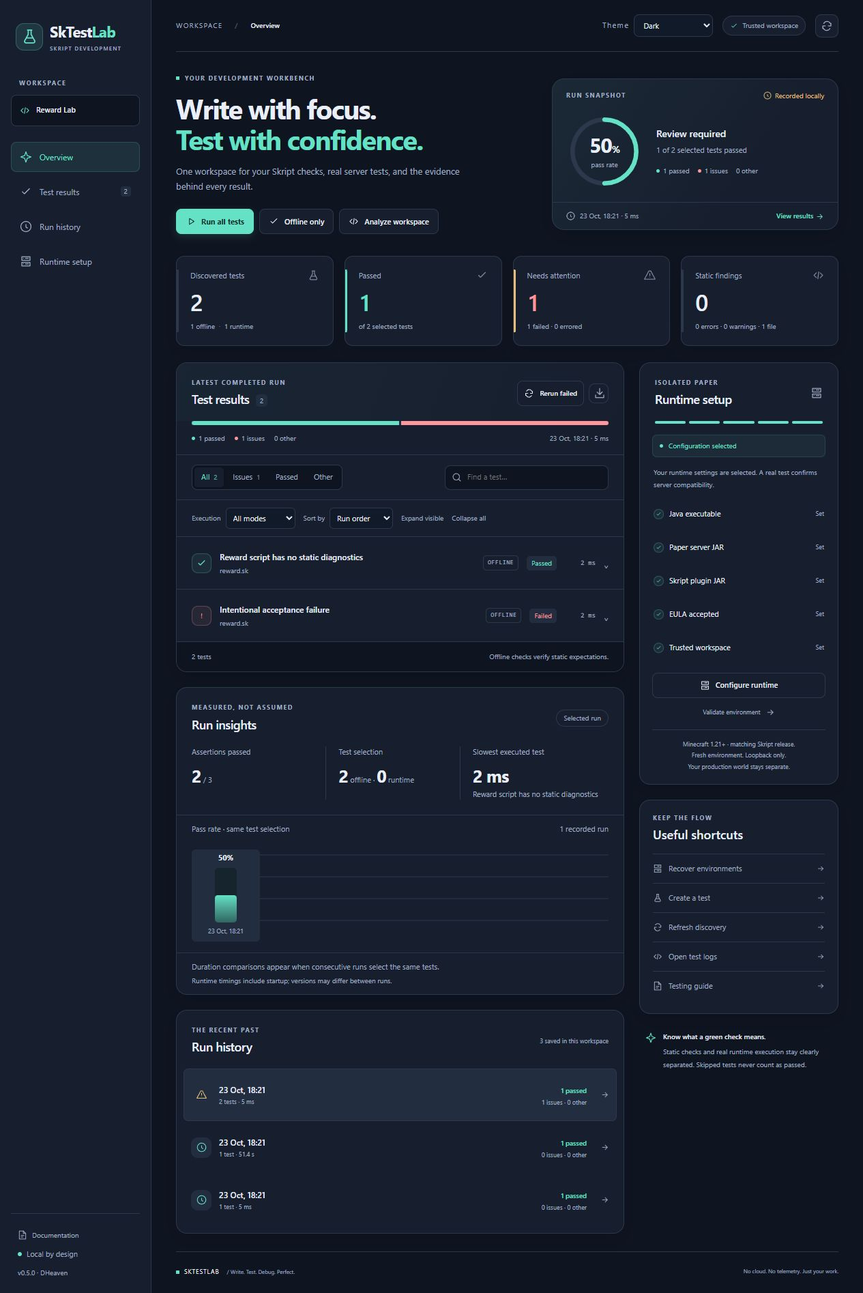
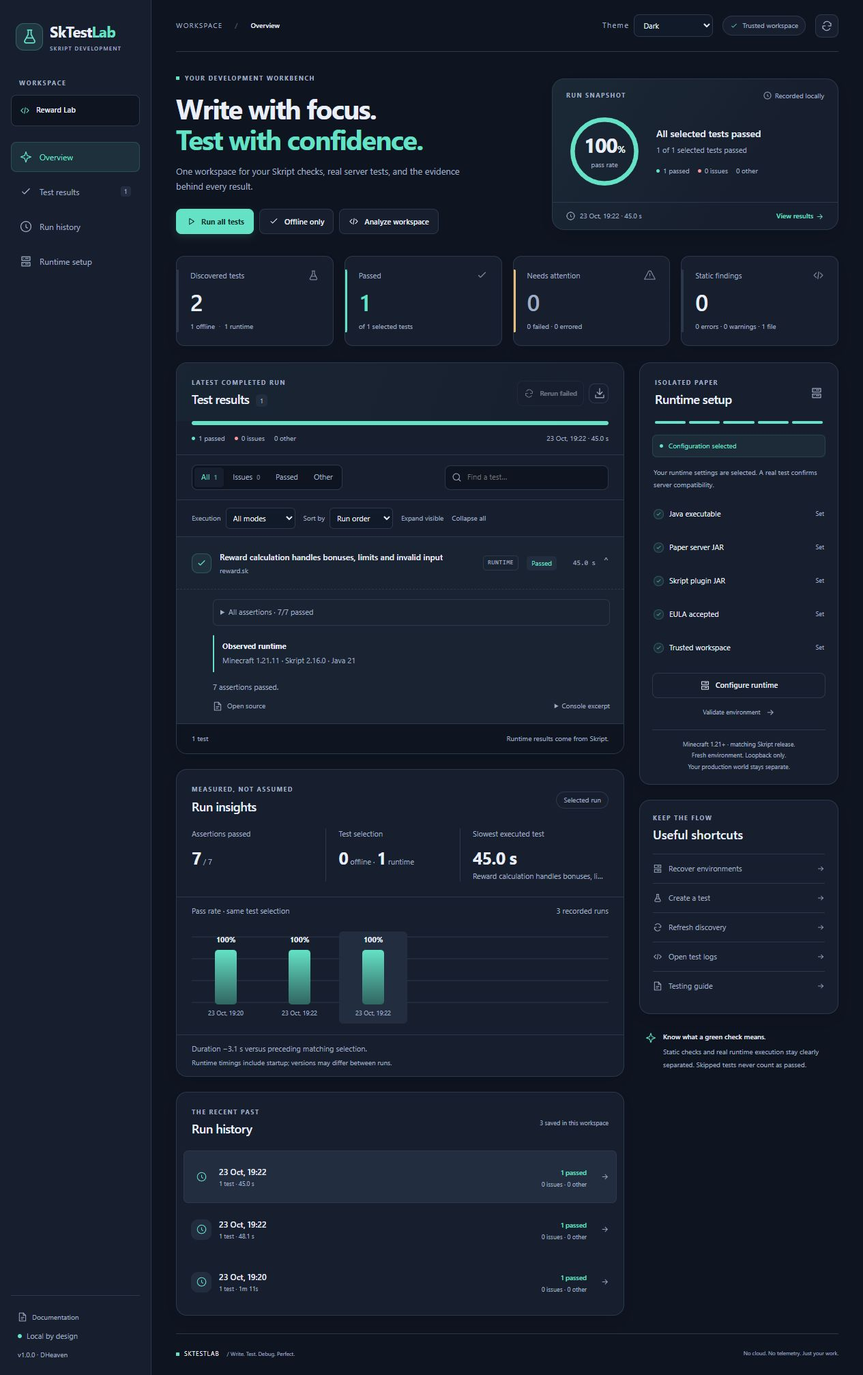
Release SkTestLab 1.0.0 for Windows x64

diff --git a/src/extension.ts b/src/extension.ts
@@ -236,6 +236,8 @@ export async function activate(context: vscode.ExtensionContext) {
       root.uri.fsPath,
       config(root.uri).get("reports.outputDirectory", ".sktestlab/reports"),
     );
+    // Native Save As dialogs can ignore a default URI whose parent is missing.
+    await vscode.workspace.fs.createDirectory(vscode.Uri.file(directory));
     const uri = await vscode.window.showSaveDialog({
       defaultUri: vscode.Uri.file(
         path.join(directory, "sktestlab-" + record.id + "." + extension),

diff --git a/scripts/prepare-release.py b/scripts/prepare-release.py
@@ -49,7 +49,7 @@ def main():
         archive.write(ROOT / "LICENSE.txt", "reward-lab/LICENSE.txt")
 
     contents = {vsix.name: vsix.read_bytes(), source.name: source.read_bytes(), example.name: example.read_bytes()}
-    for target, origin in [("LICENSE.txt", "LICENSE.txt"), ("INSTALL.md", "docs/install.md"), ("SKUNITY-LISTING.md", "docs/skunity-listing.md"), ("RELEASE-CHECKLIST.md", "docs/release-1.0.md"), ("BETA-TESTING.md", "docs/beta-testing.md")]:
+    for target, origin in [("LICENSE.txt", "LICENSE.txt"), ("INSTALL.md", "docs/install.md"), ("SKUNITY-LISTING.md", "docs/skunity-listing.md"), ("RELEASE-CHECKLIST.md", "docs/release-1.0.md"), ("TESTING-GUIDE.md", "docs/testing-guide.md"), ("SKUNITY-DESCRIPTION.bbcode", "docs/skunity-description.bbcode")]:
         contents[target] = (ROOT / origin).read_bytes()
     checksums = "".join(hashlib.sha256(data).hexdigest() + "  " + name + "\n" for name, data in sorted(contents.items()))
     contents["SHA256SUMS.txt"] = checksums.encode()
@@ -66,8 +66,27 @@ def main():
             if hashlib.sha256(archive.read(name)).hexdigest() != digest:
                 raise ValueError("Delivered checksum mismatch: " + name)
     (output / "SHA256SUMS.txt").write_text(checksums + hashlib.sha256(target.read_bytes()).hexdigest() + "  " + target.name + "\n", encoding="utf-8")
+    kit = output / f"sktestlab-{version}-skunity-kit.zip"
+    kit_contents = {target.name: target.read_bytes()}
+    for name, origin in [("PUBLISH.md", "docs/skunity-upload.md"), ("SKUNITY-LISTING.md", "docs/skunity-listing.md"), ("SKUNITY-DESCRIPTION.bbcode", "docs/skunity-description.bbcode"), ("icon.png", "assets/icon.png"), ("dashboard-dark.png", "docs/images/dashboard-dark.png"), ("dashboard-white.png", "docs/images/dashboard-white.png")]:
+        kit_contents[name] = (ROOT / origin).read_bytes()
+    kit_checksums = "".join(hashlib.sha256(data).hexdigest() + "  " + name + "\n" for name, data in sorted(kit_contents.items()))
+    kit_contents["SHA256SUMS.txt"] = kit_checksums.encode()
+    with zipfile.ZipFile(kit, "w", zipfile.ZIP_DEFLATED) as archive:
+        for name, data in sorted(kit_contents.items()):
+            archive.writestr(name, data)
+    with zipfile.ZipFile(kit) as archive:
+        if archive.testzip() is not None:
+            raise ValueError("Publishing kit ZIP is corrupt")
+        for line in kit_checksums.splitlines():
+            digest, name = line.split("  ", 1)
+            if hashlib.sha256(archive.read(name)).hexdigest() != digest:
+                raise ValueError("Publishing kit checksum mismatch: " + name)
+    with (output / "SHA256SUMS.txt").open("a", encoding="utf-8") as manifest:
+        manifest.write(hashlib.sha256(kit.read_bytes()).hexdigest() + "  " + kit.name + "\n")
     print(f"Prepared and verified {target}")
-    print("Local preview bundle only. Complete docs/release-1.0.md before publishing 1.0.0.")
+    print(f"Publishing kit: {kit}")
+    print("Local bundle only. Publication and skUnity submission are separate actions; verify final release evidence first.")
 
 
 if __name__ == "__main__":

diff --git a/scripts/test_release_audit.py b/scripts/test_release_audit.py
@@ -5,6 +5,7 @@ import unittest
 from pathlib import Path
 import zipfile
 import importlib.util
+import json
 spec = importlib.util.spec_from_file_location("release_audit", Path(__file__).with_name("audit-release.py"))
 module = importlib.util.module_from_spec(spec)
 spec.loader.exec_module(module)
@@ -29,6 +30,18 @@ class AuditTests(unittest.TestCase):
     def test_hash_mismatch(self):
         result = audit(self.bundle({"README.md": b"content"}, True))
         self.assertIn("checksum_mismatch", [f["kind"] for f in result["findings"]])
+
+    def test_valid_lockfile(self):
+        lock = {"version": "1.0.0", "packages": {"": {"version": "1.0.0"}, "node_modules/example": {"version": "0.4.1", "resolved": "https://registry.npmjs.org/example/-/example-0.4.1.tgz"}}}
+        self.assertTrue(audit(self.bundle({"package-lock.json": json.dumps(lock).encode()}))["passed"])
+
+    def test_dependency_version_bump_in_lockfile(self):
+        lock = {"version": "1.0.0", "packages": {"": {"version": "1.0.0"}, "node_modules/example": {"version": "1.0.0", "resolved": "https://registry.npmjs.org/example/-/example-0.4.1.tgz"}}}
+        result = audit(self.bundle({"package-lock.json": json.dumps(lock).encode()}))
+        self.assertIn("inconsistent_lockfile_versions", [f["kind"] for f in result["findings"]])
+
+    def test_root_version_mismatch_in_lockfile(self):
+        self.assertFalse(module.lockfile_valid(b'{"version":"1.0.0","packages":{"":{"version":"0.5.0"}}}'))
 
     def test_token_report_does_not_repeat_token(self):
         token = b"ghp_" + b"a" * 40

diff --git a/scripts/audit-release.py b/scripts/audit-release.py
@@ -17,6 +17,23 @@ PATTERNS = {
 BLOCKED = {".git", ".vscode", ".vscode-test", "node_modules", "coverage", "__pycache__"}
 
 
+def lockfile_valid(content):
+    """Registry tarball versions must agree with their locked metadata."""
+    try:
+        lock = json.loads(content)
+        packages = lock["packages"]
+        if lock["version"] != packages[""]["version"]:
+            return False
+        for package in packages.values():
+            resolved = package.get("resolved", "")
+            match = re.search(r"/-/[^/]+-(\d+\.\d+\.\d+(?:[-+][\w.-]+)?)\.tgz$", resolved)
+            if resolved.startswith("https://registry.npmjs.org/") and match and package.get("version") != match[1]:
+                return False
+        return True
+    except (KeyError, TypeError, ValueError, AttributeError):
+        return False
+
+
 def audit(bundle):
     findings = []
     count = 0
@@ -43,6 +60,8 @@ def audit(bundle):
                 if re.search(r"(?:^|/)(?:\.env(?:\.[^/]*)?|id_rsa|id_ed25519)$", name, re.I) or name.lower().endswith((".pem", ".pfx", ".p12", ".jar")):
                     findings.append({"file": full, "kind": "private_or_server_artifact"})
                 content = archive.read(entry)
+                if parts[-1] == "package-lock.json" and not lockfile_valid(content):
+                    findings.append({"file": full, "kind": "inconsistent_lockfile_versions"})
                 if name.endswith((".zip", ".vsix")):
                     scan(content, full, depth + 1)
                 else:

diff --git a/docs/release-1.0.md b/docs/release-1.0.md
@@ -1,6 +1,6 @@
 # SkTestLab 1.0.0 acceptance checklist
 
-Current candidate: **0.5.0**. This is a free MIT VS Code testing tool for the skUnity Skript Tools category. A Marketplace listing is optional for distributing a VSIX on skUnity.
+Release: **1.0.0**. This is a free MIT VS Code testing tool for the skUnity Skript Tools category. A Marketplace listing is optional for distributing a VSIX on skUnity.
 
 ## Completed
 
@@ -22,10 +22,10 @@ Current candidate: **0.5.0**. This is a free MIT VS Code testing tool for the sk
 - [x] **Freeze the supported scope.** Windows x64 is the initial supported platform, declared in the VSIX and listing. Other operating systems and architectures remain uncertified.
 - [x] **Windows runtime recovery milestone.** Repeated action cancellation, action timeout and abrupt owner-process termination were exercised on disposable Paper environments. Explicit recovery protects live/uncertain processes; ownership/path checks and unconfirmed shutdown preservation are covered by automated tests. Cross-platform behavior remains part of the platform gate.
 - [x] **Close the version claim.** Only the three recorded Paper/Skript pairings are advertised as tested. Other 1.21 patches and 26.x are accepted targets requiring local verification, not certified combinations. No universal addon compatibility is claimed.
-- [ ] **Fresh-user acceptance.** Install the final VSIX from the final ZIP in a clean profile, follow INSTALL.md without developer setup, run the portable example offline and on Paper, inspect/export failures, update from 0.2.x and uninstall. Include light/dark/high-contrast, narrow view and keyboard checks on claimed platforms.
-- [ ] **Gather independent beta feedback.** Have external Skript users follow the guide and record/fix blocking problems. Do not count internal synthetic checks as outside feedback.
-- [ ] **Provide public source/download and support.** Choose the real repository or other public source host and a monitored support route. Publish MIT source corresponding exactly to the downloadable VSIX. Configure issue/security contact links with actual owner-approved destinations.
-- [ ] **Final release evidence.** Bump to 1.0.0 after these gates; rerun type/lint/format/unit, editor/minimum/trust tests, matrix and process cleanup tests on final sources. Package/install that exact VSIX, verify ZIP/checksums, archive results, and write the release notes.
+- [x] **Windows acceptance.** Installed 1.0.0 candidate from its ZIP; portable offline/Paper checks, seven reward assertions, deliberate failure/JUnit export, 0.2.1 upgrade/history preservation, uninstall and project hashes passed. Current/minimum/Restricted editors and four native theme switches passed. Isolated native setup pickers/Java/EULA cancellation and JSON Save As were exercised; the first-use report directory fix was reinstalled and verified.
+- [x] **Independent beta feedback waived by the owner on 2026-10-23.** External reports remain optional; none are claimed. Final automated and local UI acceptance still apply.
+- [x] **Public source/download and support established.** MIT source, GitHub Issues and an anonymously verified 0.5.0 download are live at Alexpetkanov13/SkTestLab. Publish and verify the exact final 1.0.0 artifacts separately.
+- [x] **1.0.0 code acceptance.** Version set to 1.0.0; type/lint/format, 159 unit checks, seven native checks, minimum/trust checks, five real runtime scenarios, three-pairing matrix and interruption/recovery checks passed. Final archive/source reproducibility, exact download hash and publication results are recorded in the GitHub release evidence after freezing documentation.
 - [ ] **skUnity submission review.** Replace draft download/support text, use exact version/support claims, upload owned icon/screenshots, verify anonymous download access and preview the post. The owner submits; staff approval is separate from completing 1.0.0.
 
 ## Good later features, not mandatory for this scoped 1.0
@@ -53,4 +53,4 @@ npm run test:reliability
 npm run release:prepare
 ```
 
-The download ZIP includes VSIX, source ZIP, portable Reward Lab ZIP, MIT license, installation guide, listing draft, this checklist and SHA-256 checksums. Preparing it never uploads or publishes anything.
+The download ZIP includes VSIX, source ZIP, portable Reward Lab ZIP, MIT license, installation/testing guides, listing/BBCode, this checklist and SHA-256 checksums. Preparing it never uploads or publishes anything.

diff --git a/README.md b/README.md
@@ -2,7 +2,7 @@
 
 **DHeaven · Write. Test. Debug. Perfect.**
 
-[Source](https://github.com/Alexpetkanov13/SkTestLab) · [Downloads](https://github.com/Alexpetkanov13/SkTestLab/releases) · [Issues and beta feedback](https://github.com/Alexpetkanov13/SkTestLab/issues) · [MIT license](LICENSE.txt)
+[Source](https://github.com/Alexpetkanov13/SkTestLab) · [Downloads](https://github.com/Alexpetkanov13/SkTestLab/releases) · [Issues and support](https://github.com/Alexpetkanov13/SkTestLab/issues) · [MIT license](LICENSE.txt)
 
 Skript diagnostics and repeatable tests in VS Code's native Testing sidebar. No account or cloud service required; coexists with your syntax-highlighting extension.
 
@@ -10,7 +10,7 @@ Initial supported platform: **Windows x64**, VS Code 1.96+. The release VSIX tar
 
 Dashboard **Theme** menu: choose **White**, **Dark**, or **Follow VS Code**. Your choice is remembered locally without changing the editor theme.
 
-## Available in 0.5.0
+## Available in 1.0.0
 
 - Source-preserving analysis with 12 configurable diagnostic rules, confidence labels, two Quick Fixes and cross-file declaration warnings.
 - Versioned `.sktest.json` definitions, JSON Schema and snippets.
@@ -20,11 +20,11 @@ Dashboard **Theme** menu: choose **White**, **Dark**, or **Follow VS Code**. You
 - An interactive mint-accented dashboard with comparable run trends, slowest-test insights, mode filters, sorting and complete assertion evidence: live progress, searchable/filterable results, assertion details, source links, workspace-scoped history, runtime setup checklist and direct testing actions.
 - SkTestLab activity-bar view, offline-only runs, live status bar, declaration-based templates, CodeLens, regression comparison, JSON/HTML/JUnit reports and offline CLI.
 
-**Status: preview.** Real Paper 1.21.11-132 / Skript 2.16.0 / Java 21.0.12 tests verify passing/failing assertions, parse errors, warning-only scripts and startup cancellation. ChickFarm project checks exposed and fixed static false positives and multiline runtime error handling. Paper Minecraft 1.21+ and upstream-compatible Skript releases are accepted without a version whitelist. Observed versions are retained with results. See the [compatibility policy and version-matrix runner](docs/compatibility.md); acceptance does not certify every combination. See [verification](docs/verification.md), [ChickFarm results](docs/chickfarm-verification.md) and [limitations](docs/roadmap.md).
+**Status: 1.0.0 · Windows x64.** Real Paper 1.21.11-132 / Skript 2.16.0 / Java 21.0.12 tests verify passing/failing assertions, parse errors, warning-only scripts and startup cancellation. ChickFarm project checks exposed and fixed static false positives and multiline runtime error handling. Paper Minecraft 1.21+ and upstream-compatible Skript releases are accepted without a version whitelist. Observed versions are retained with results. See the [compatibility policy and version-matrix runner](docs/compatibility.md); acceptance does not certify every combination. See [verification](docs/verification.md), [ChickFarm results](docs/chickfarm-verification.md) and [limitations](docs/roadmap.md).
 
-![SkTestLab dark dashboard displaying recorded Reward Lab acceptance results](docs/images/dashboard-dark.png)
+![SkTestLab dark dashboard displaying recorded Reward Lab runtime results](docs/images/dashboard-dark.png)
 
-[View the White theme](docs/images/dashboard-white.png). Screenshots include an intentional acceptance failure to demonstrate issue review.
+[View the White theme](docs/images/dashboard-white.png). Screenshots show the final recorded Reward Lab runtime matrix.
 
 ## Install and use
 
@@ -34,7 +34,7 @@ Dashboard **Theme** menu: choose **White**, **Dark**, or **Follow VS Code**. You
 4. Open Testing (beaker) and run. Use **SkTestLab: Open Dashboard** for saved results.
 
 ```powershell
-code --install-extension ./sktestlab-win32-x64-0.5.0.vsix
+code --install-extension ./sktestlab-win32-x64-1.0.0.vsix
 ```
 
 Minimal offline test; paths are relative to the owning workspace folder:

diff --git a/docs/verification.md b/docs/verification.md
@@ -107,3 +107,15 @@ Replaced decorative hero artwork with a measured selected-run snapshot, placed t
 Type, lint and format checks and all 159 unit tests passed. The native VS Code suite passed all seven checks, including the actual webview CSP and profile-persistent appearance. Browser checks exercised issue filtering, execution-mode empty matches, searching and expanding/collapsing visible assertions. Reviewed White/Dark, empty history and a 390px iframe layout. Desktop DOM measurement confirmed no horizontal overflow and results preceding insights. Browser previews use recorded Reward Lab acceptance results, including an intentional failure, and a local theme-persistence bridge; they are not new Minecraft runs. Updated White/Dark screenshots show this candidate.
 
 The Minecraft provider did not change, so the real-server version matrix was not repeated for this UI change. Independent beta feedback and final native setup/report-saving dialogs remain release gates. A 0.5.0 candidate package is prepared separately from public GitHub source and release assets.
+
+## Release 1.0.0 acceptance — 2026-10-23
+
+The owner waived independent beta feedback as a release requirement; no external reports are claimed. Initial support remains Windows x64, MIT, VS Code 1.96+, with only the three recorded Paper/Skript pairings certified by local evidence.
+
+All 159 unit checks and type/lint/format checks passed. The installed 1.0.0 candidate passed seven native extension checks, VS Code 1.96.0 (`editor-check-8LjG63`), and actual Restricted Mode (`editor-check-M9gP2v`). Restriction kept runtime and initialization blocked while permitting offline checks. Real Paper canonical tests produced all five expected outcomes (`runtime-real-CVhZDd`): pass, assertion failure, parser error, warning-only pass and startup cancellation. All three matrix pairings passed seven reward assertions each (`matrix-bTPqX4`). Repeated action cancellation, timeout and abrupt owner exit/recovery passed (`reliability-real-pqM0Xo`); no SkTestLab Java processes remained afterward. The provider was unchanged by the final report-export fix.
+
+The installed candidate upgraded 0.2.1 to 1.0.0 with history preserved, ran portable offline and real Paper tests, exported an intentional failed CLI JUnit report, switched four native themes, uninstalled and preserved original project file hashes (`distribution-HWs7cK`).
+
+An isolated editor walkthrough selected the actual Paper and Skript files and retained the Java path. The Minecraft EULA prompt was cancelled; existing acceptance from the owner's test server was reused for runtime tests, and no new agreement was accepted by the agent. A real JSON Save As export was opened and its contents verified. This found a missing-parent-directory issue that caused Windows to reuse an unrelated previous folder. Export now creates the configured report directory before opening Save As. The fixed VSIX was reinstalled; the actual dialog opened in that workspace's .sktestlab/reports folder and saved a valid report there. Original editor/scripts/server files were not modified. Local screenshots/paths used for UI evidence are kept out of the public package.
+
+Final source review also corrected three dependency version metadata entries without changing their resolved tarballs and restored the complete testing reference alongside the optional walkthrough. Nine release-audit regression tests now include locked dependency/root-version consistency. Final documentation and publication artifacts are frozen after these checks. Clean-source reproduction, archive audits, final bundle installation and anonymous release-asset verification are recorded with the release run. The owner remains responsible for previewing/submitting the skUnity resource; staff approval is independent.

diff --git a/docs/testing-guide.md b/docs/testing-guide.md
@@ -44,3 +44,32 @@ node dist/cli.js examples/beginner/script.sktest.json --junit=results.xml
 ```
 
 Supply explicit paths; shell glob expansion differs. CLI uses default analyzer settings, emits JSON, optionally writes JUnit and exits 1 for non-pass or 2 for malformed input. Runtime definitions are unsupported, never silently passed.
+
+## Installation walkthrough
+
+Use this optional walkthrough to check a Windows x64 installation. Keep issue reports tied to the exact VSIX version and SHA-256 checksum. Do not test untrusted scripts or use a production Minecraft world.
+
+1. Extract the download ZIP and follow INSTALL.md in a new VS Code window/profile. Record whether any installation step is unclear. You should not need Node or Python to use the extension.
+2. Open the portable Reward Lab folder and run its offline test. Open the dashboard and switch **Theme → White**, then **Dark**. Close/reopen it to check the choice persists. Try **Follow VS Code** with a light, dark and high-contrast editor theme.
+3. Use Tab/Enter and the skip link to navigate. Press `/` for search and Escape to clear. Try filters, sorting, expanded assertions and a narrow editor panel. Report clipped controls or unreadable text.
+4. Configure Runtime through its actual dialogs using compatible local Paper/Skript/Java files. Read and accept the Minecraft EULA yourself. Run the reward runtime test; expect seven passing assertions.
+5. Change an expected reward from 50 to 51. Confirm a failure, inspect expected/received details and source navigation, then restore the expectation. Use the Export report button to save JSON, HTML and JUnit through the real dialogs and open the saved files.
+6. Cancel a runtime test. Review the log and confirm the test is cancelled rather than passed. If an environment remains, inspect it with Recover Runtime Environments; do not manually delete a directory used by a live server.
+7. Upgrade from a prior candidate and check that saved history/settings remain. Uninstall and confirm your own scripts/test definitions remain.
+
+### Reporting a problem
+
+Use GitHub Issues at https://github.com/Alexpetkanov13/SkTestLab/issues with these details:
+
+- Release version and downloaded file checksum:
+- Windows/architecture and VS Code version:
+- Java, Paper, Skript and addon versions (if testing runtime):
+- Which numbered steps were completed:
+- What you expected and what actually happened:
+- Exact reproduction steps and smallest safe script/test fixture:
+- Setup/export dialog feedback:
+- Theme, keyboard and narrow-layout observations:
+- Upgrade/uninstall observations:
+- Blocking problem, minor issue, suggestion, or no issues found:
+
+Attach only sanitized logs/screenshots. Do not include credentials, private paths you want kept private, production worlds or unrelated project files. Verification evidence is recorded separately in docs/verification.md.

diff --git a/docs/skunity-listing.md b/docs/skunity-listing.md
@@ -1,4 +1,4 @@
-# skUnity listing draft — review before submission
+# skUnity listing — 1.0.0
 
 Category: **Skript Tools**
 
@@ -6,7 +6,7 @@ Title: **SkTestLab — Skript Testing & Diagnostics for VS Code**
 
 Tagline: **Check your scripts, run real Paper tests, and inspect the evidence in VS Code.**
 
-Version: use the exact included VSIX version. Current build is **0.5.0 preview**, not 1.0.0.
+Version: use the exact included VSIX version. Current release is **1.0.0**.
 
 Price/license: **Free · MIT open source**
 
@@ -40,10 +40,12 @@ Offline checks are structural heuristics, not a complete Skript parser. Runtime 
 
 Source: https://github.com/Alexpetkanov13/SkTestLab
 
-Downloads: https://github.com/Alexpetkanov13/SkTestLab/releases
+Download ZIP: https://github.com/Alexpetkanov13/SkTestLab/releases/download/v1.0.0/sktestlab-1.0.0-download.zip
 
-Support and beta feedback: https://github.com/Alexpetkanov13/SkTestLab/issues
+Release notes: https://github.com/Alexpetkanov13/SkTestLab/releases/tag/v1.0.0
 
-Before submission, verify that the intended release asset is actually published and downloads without an account, ad delays or surveys. The releases-page link is not proof that an asset exists. Upload the provided icon and screenshots through the resource editor and preview the listing. No third-party server/plugin JARs are redistributed. This is still a preview candidate; independent beta feedback and final 1.0 acceptance remain pending.
+Support and feedback: https://github.com/Alexpetkanov13/SkTestLab/issues
+
+Before submission, verify that the intended release asset is actually published and downloads without an account, ad delays or surveys. The releases-page link is not proof that an asset exists. Upload the provided icon and screenshots through the resource editor and preview the listing. No third-party server/plugin JARs are redistributed. Use SKUNITY-DESCRIPTION.bbcode for a copy-ready resource description. The owner previews and submits the post; staff approval is separate.
 
 Official submission references, reviewed 2026-10-23: [About Resources](https://docs.skunity.com/guides/guide/about-resources.21), [How to Submit](https://docs.skunity.com/guides/guide/how-to-submit-resources.22), [Resource Standards](https://docs.skunity.com/guides/guide/resource-standards.23). Staff review is required; this draft does not imply approval.

diff --git a/docs/beta-status.md b/docs/beta-status.md
@@ -1,11 +1,5 @@
-# Independent beta status
+# External feedback status
 
-Candidate: **0.5.0** · Windows x64 · MIT
+The owner waived independent beta feedback as a 1.0.0 release requirement on 2026-10-23. No external reports have been received or claimed. Local UI acceptance and the final automated release checks still apply.
 
-Independent reports received: **0**. No independent pass/fail outcome has been established. Internal automated runs are recorded in verification.md and must not be counted as tester reports.
-
-Use [beta-testing.md](beta-testing.md) for the walkthrough and [GitHub Issues](https://github.com/Alexpetkanov13/SkTestLab/issues) for ordinary feedback using the published source and issue templates. The repository issue template is prepared; no invitation or message has been sent automatically.
-
-Record sanitized report links in beta-feedback.csv. For each report, classify the finding, reproduce it, link its fix and record confirmation on a candidate. Keep personal contact details and private logs out of the public tracker.
-
-Before promoting 1.0.0, obtain independent walkthrough feedback covering installation, actual runtime setup dialogs, white/dark themes, report-saving dialogs and upgrade/uninstall. Resolve blocking issues and document any accepted limitations in release notes. The final 1.0.0 artifact must still receive its own acceptance run.
+Reports remain welcome through [GitHub Issues](https://github.com/Alexpetkanov13/SkTestLab/issues). The optional beta-testing.md walkthrough and issue template can still be used. Internal checks are recorded in verification.md and do not count as external feedback. No tester outreach has been sent automatically.

diff --git a/docs/skunity-upload.md b/docs/skunity-upload.md
@@ -1,0 +1,10 @@
+# Publish SkTestLab 1.0.0 on skUnity
+
+1. In your skUnity account, create a **Skript Tools** resource. Title: **SkTestLab — Skript Testing & Diagnostics for VS Code**. Tagline: **Check your scripts, run real Paper tests, and inspect the evidence in VS Code.** Version: **1.0.0**. Price: **Free**. License: **MIT**.
+2. Upload **sktestlab-1.0.0-download.zip** from this kit as the resource file. The kit ZIP itself is a publishing aid, not the end-user download. Alternatively use the exact verified GitHub download URL from SKUNITY-LISTING.md.
+3. Paste **SKUNITY-DESCRIPTION.bbcode** into the description's BBCode/source editor. Switch to preview and verify headings, lists and links.
+4. Upload **icon.png**, **dashboard-dark.png** and **dashboard-white.png** as the resource icon/screenshots. The dashboard screenshots use actual recorded test evidence; they illustrate the UI, not every supported configuration.
+5. Confirm the listed Windows/VS Code/Java requirements, the three verified Paper/Skript pairings, MIT/source/support links, and the download filename. Download the resource once without signing in after it is available and compare its SHA-256 with SHA256SUMS.txt.
+6. Submit the post yourself. Staff review/approval is a separate skUnity process. Do not claim Marketplace availability or universal version/addon certification.
+
+Official references reviewed 2026-10-23: [resource categories and download restrictions](https://docs.skunity.com/guides/guide/about-resources.21), [resource standards](https://docs.skunity.com/guides/guide/resource-standards.23). Use your own resource upload so visitors can obtain the current version directly from skUnity.

diff --git a/docs/hosting-handoff.md b/docs/hosting-handoff.md
@@ -20,7 +20,7 @@ The release ZIP includes source, the VSIX, a portable example, checksums and bet
 2. Wait for the Quality workflow. Packaging runs on Windows and checks the installable Windows x64 candidate; real Minecraft workflows need an explicitly provisioned runner and accepted EULA.
 3. Publish a clearly labeled candidate GitHub Release only after reviewing the source and build results. Attach the matching download ZIP and SHA256SUMS.txt, plus the VSIX if desired. Do not bundle Paper, Skript or addon JARs.
 4. Verify the exact release asset downloads anonymously and its hash matches. A releases-page URL alone does not prove an artifact has been uploaded.
-5. Share the beta checklist through an owner-selected channel, collect actual reports and update beta-status.md. No automated outreach is included.
+5. Independent beta feedback was waived by the owner on 2026-10-23. Optional reports remain welcome; do not invent external acceptance. No automated outreach is included.
 6. Complete the final 1.0 checklist before changing the release/listing to 1.0.0 or submitting on skUnity.
 
-The skUnity draft contains real source/support/releases links. It must retain its preview label until the final gates are complete. Publishing source, attaching a GitHub Release and submitting on skUnity are separate actions; verify each result explicitly.
+The skUnity listing contains real source/support/download links. The 1.0.0 checklist records the owner-waived feedback requirement and final acceptance evidence. Publishing source, attaching a GitHub Release and submitting on skUnity are separate actions; verify each result explicitly.
